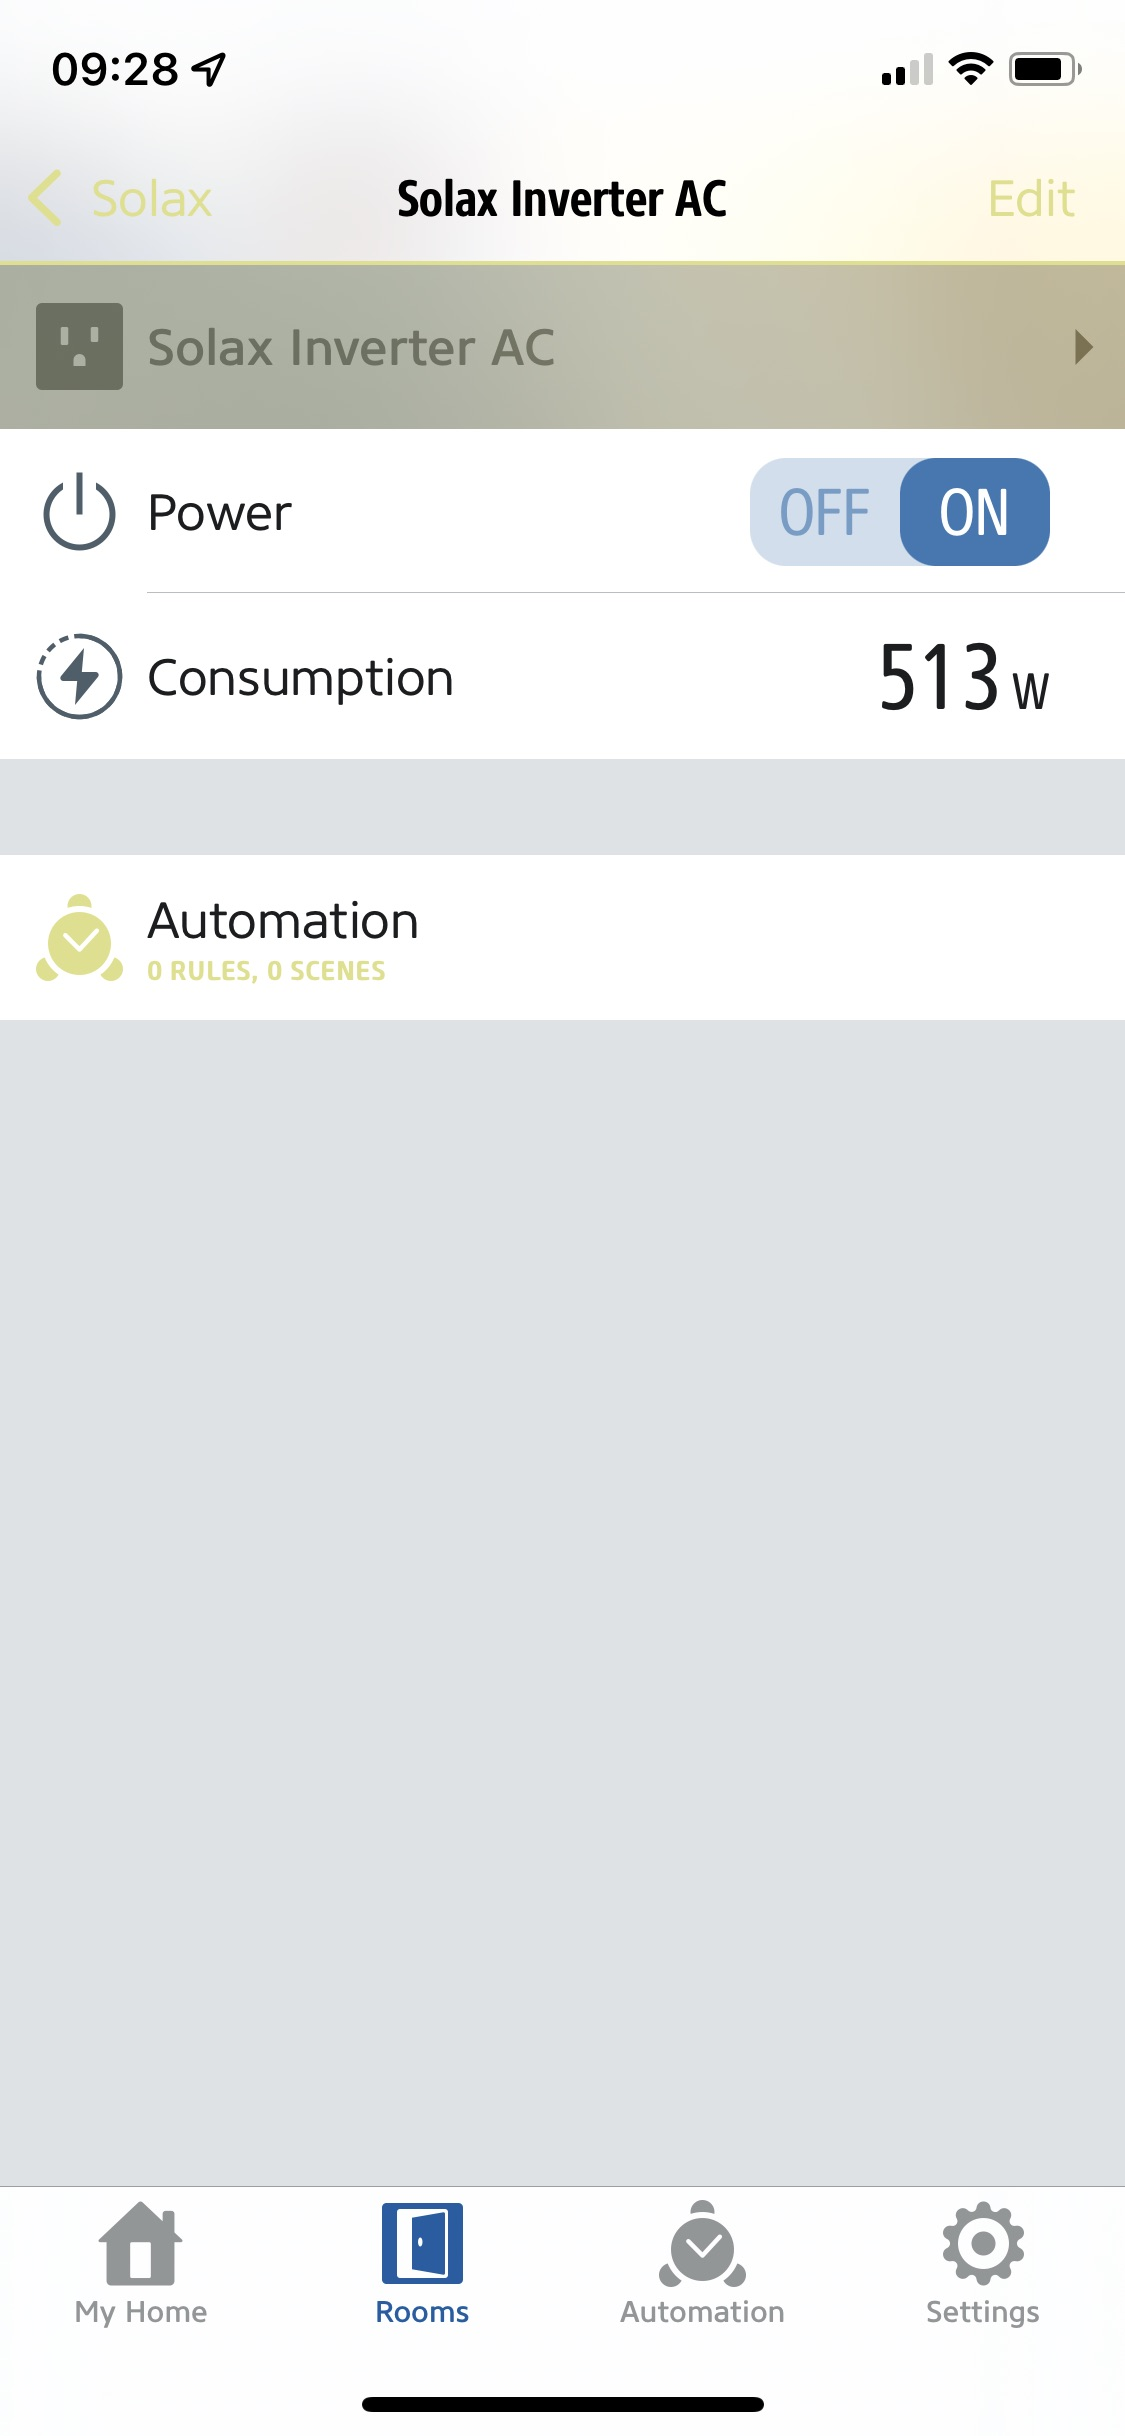
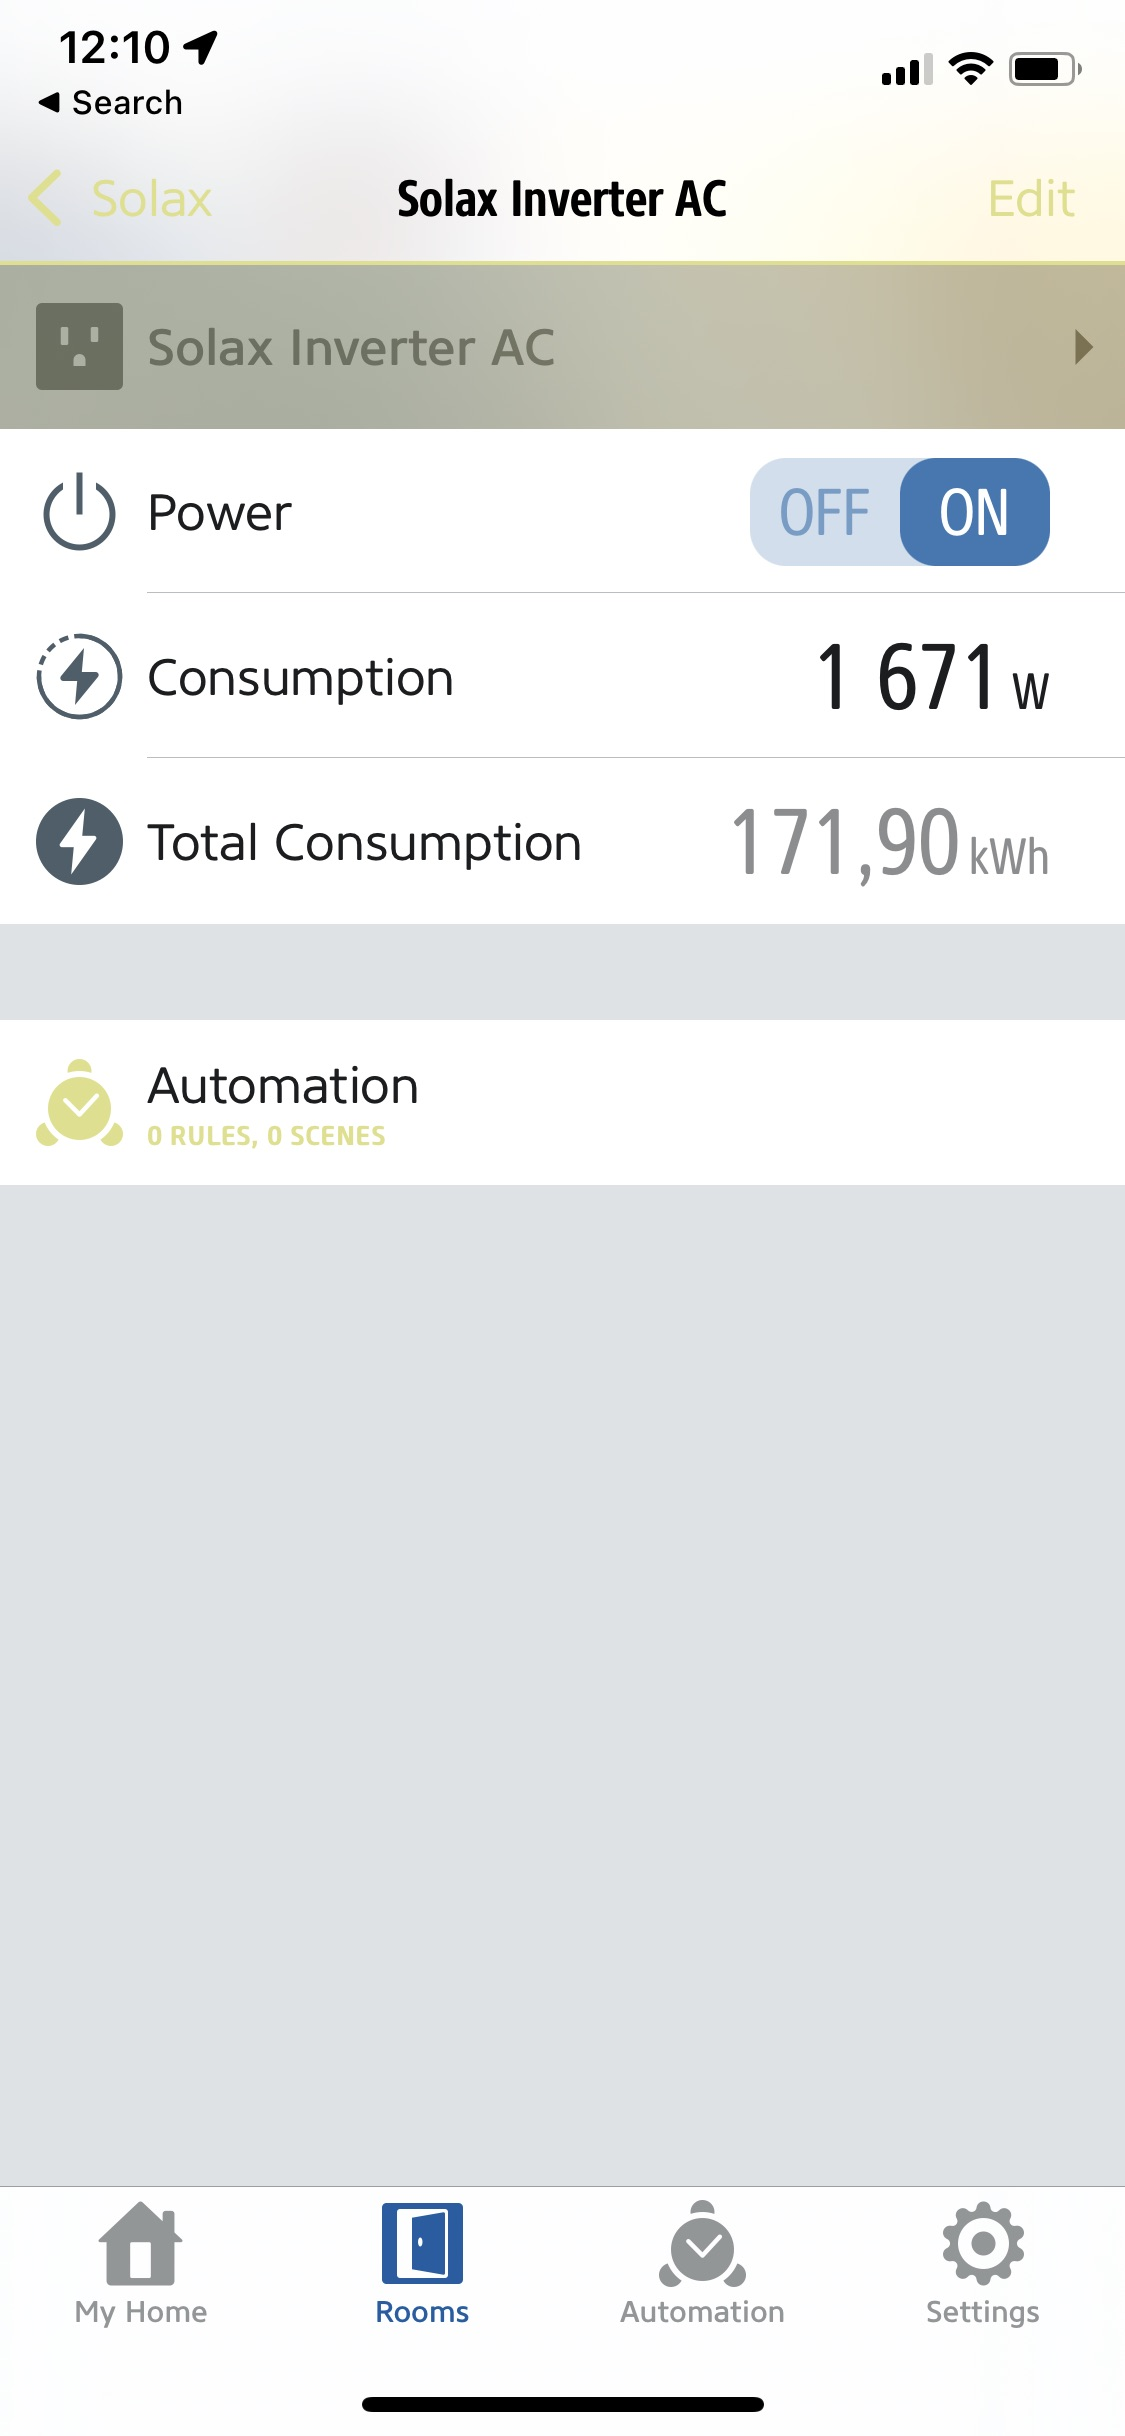
documentation updated to reflect new characteristic (total energy)

Changed region(s): [[0.0, 0.2496, 1.0, 0.4992], [0.0311, 0.0, 0.2178, 0.0624]]

diff --git a/README.md b/README.md
@@ -67,7 +67,7 @@ Configuration through the the use of [Homebridge UI](https://github.com/oznu/hom
 
 Non-standard accessory characteristics are available through the use of [Eve for HomeKit app](https://apps.apple.com/us/app/eve-for-homekit/id917695792) you may download from the App Store.
 
-This will allow some important non-standard characteristics to be visible (like consumption), as depicted in the image below:
+This will allow some important non-standard characteristics to be visible (like power or total energy consumption), as depicted in the image below:
 
 ![consumption](images/plugin-outlet-consumption.png)
 
